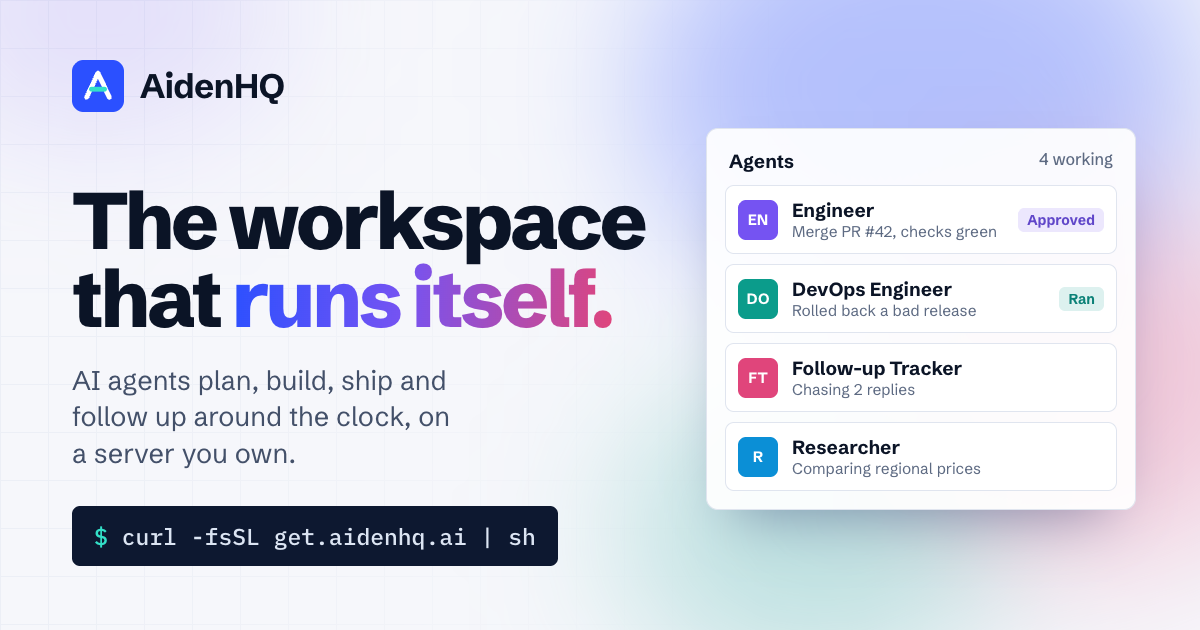
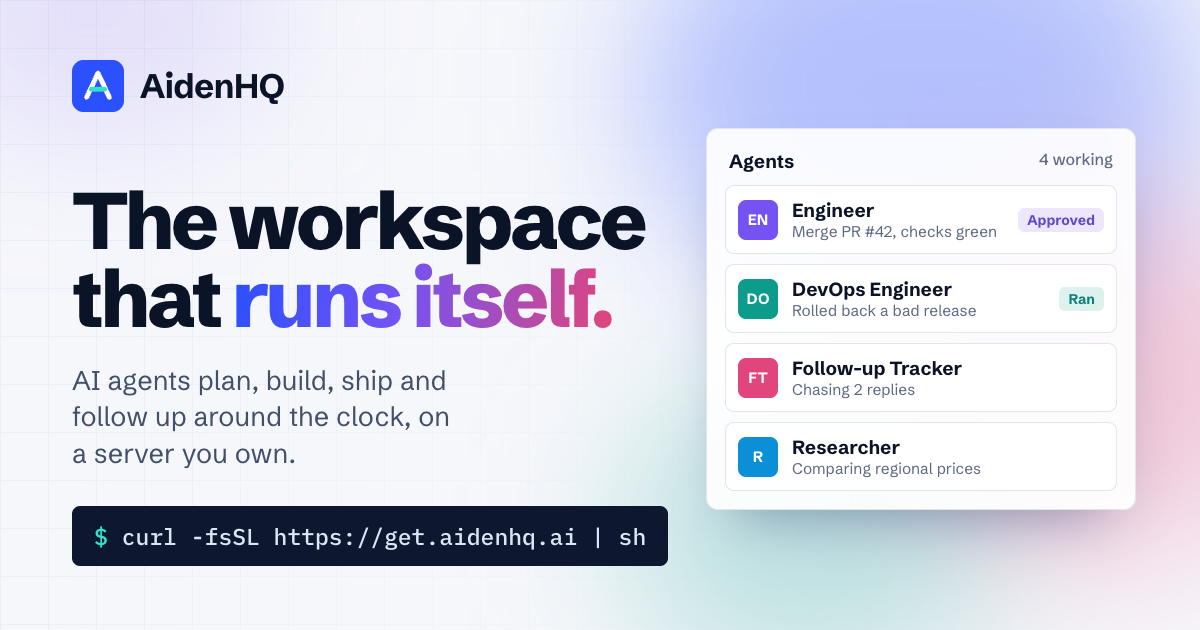
fix(site): exact install command in the share image, cost answer the release backs, original theme-color
The share image now shows the same `curl -fsSL https://get.aidenhq.ai | sh` as every page. The cost answer no
longer says setup limits the key (the release only does that with a management key); it says you can. theme-color
goes back to the single brand tag: per-scheme colours ignored the site's own theme toggle.

Changed region(s): [[0.2158, 0.7841, 0.555, 0.9048]]

diff --git a/site/index.html b/site/index.html
@@ -119,7 +119,7 @@
      "name": "What does it cost to run?",
      "acceptedAnswer": {
       "@type": "Answer",
-      "text": "AidenHQ itself is free and open source. You pay for your own server and for model usage, which OpenRouter bills to your own key. Setup puts a monthly limit on that key, each agent has spend caps per run, per task and per day, and the Costs page shows where every cent goes."
+      "text": "AidenHQ itself is free and open source. You pay for your own server and for model usage, which OpenRouter bills to your own key. Each agent has spend caps per run, per task and per day, you can put a monthly limit on the key itself, and the Costs page shows where every cent goes."
      }
     },
     {
@@ -386,7 +386,7 @@
       <li class="cap reveal" style="--c: var(--blue)"><h3>What is AidenHQ?</h3><p>AidenHQ is an open-source, self-hosted workspace where a team of AI agents runs work end to end: it plans, builds and ships, follows up with people, and maintains the internal apps it builds. You talk to Aiden, the chief of staff, on the web, Telegram or Slack. Aiden hands work to specialist agents and brings you only the decisions.</p></li>
       <li class="cap reveal" style="--c: var(--violet)"><h3>How do I install it?</h3><p>Paste one line into Claude Code, Codex or another coding assistant: &ldquo;Set up AidenHQ on my server by following https://aidenhq.ai/prompt.md&rdquo;. Or run <code>curl -fsSL https://get.aidenhq.ai | sh</code> on the server yourself. The install ends with a one-time setup link: open it, create your password and authenticator, and add your model key.</p><p style="margin-top:10px"><a class="lnk" href="/start/">Get started</a></p></li>
       <li class="cap reveal" style="--c: var(--teal)"><h3>What do I need?</h3><p>A Linux server with Ubuntu 22.04, 24.04 or 26.04, or Debian 12 or 13: at least 2 cores, 6 GB of memory and 60 GB of disk (4 cores, 8 GB and 100 GB recommended), reachable over SSH with a key. A Mac with macOS 13 or later, 12 GB of memory and 60 GB free also works. You also need an OpenRouter key for the AI models. Telegram, Slack and Google are optional.</p><p style="margin-top:10px"><a class="lnk" href="/install/">Install guide</a></p></li>
-      <li class="cap reveal" style="--c: var(--amber)"><h3>What does it cost to run?</h3><p>AidenHQ itself is free and open source. You pay for your own server and for model usage, which OpenRouter bills to your own key. Setup puts a monthly limit on that key, each agent has spend caps per run, per task and per day, and the Costs page shows where every cent goes.</p><p style="margin-top:10px"><a class="lnk" href="/safety/#costs">Spend limits</a></p></li>
+      <li class="cap reveal" style="--c: var(--amber)"><h3>What does it cost to run?</h3><p>AidenHQ itself is free and open source. You pay for your own server and for model usage, which OpenRouter bills to your own key. Each agent has spend caps per run, per task and per day, you can put a monthly limit on the key itself, and the Costs page shows where every cent goes.</p><p style="margin-top:10px"><a class="lnk" href="/safety/#costs">Spend limits</a></p></li>
       <li class="cap reveal" style="--c: var(--sky)"><h3>Where does my data live?</h3><p>On the server you run it on. The workspace has no open ports: you reach it over an SSH tunnel or your private network. Every agent, instruction and app lives in your own git repository, so every change is reviewable and can be rolled back.</p><p style="margin-top:10px"><a class="lnk" href="/safety/#private">Private by design</a></p></li>
       <li class="cap reveal" style="--c: var(--pink)"><h3>Is it open source?</h3><p>Yes. The kernel is AGPL-3.0-only. The official modules, the app starter and the design system are MIT, so the apps your agents build carry no AGPL obligations.</p><p style="margin-top:10px"><a class="lnk" href="https://github.com/Aiden-HQ/AidenHQ">Source on GitHub</a></p></li>
     </ul>

diff --git a/web/og/home.html b/web/og/home.html
@@ -3,7 +3,7 @@
 <html><head><meta charset="utf-8"><link href="https://fonts.googleapis.com/css2?family=Schibsted+Grotesk:wght@400;500;600;700;800&family=IBM+Plex+Mono:wght@500&display=block" rel="stylesheet"><link rel="stylesheet" href="base.css"></head><body><div class="grid"></div><div class="mesh"><i class="m1"></i><i class="m2"></i><i class="m3"></i><i class="m4"></i></div><div class="in"><div class="brand"><svg viewBox="0 0 32 32"><rect width="32" height="32" rx="7" fill="#2B50FF"/><path d="M9 23 16 8l7 15" fill="none" stroke="#fff" stroke-width="3" stroke-linejoin="round" stroke-linecap="round"/><path d="M12 18h8" stroke="#33E0C8" stroke-width="3" stroke-linecap="round"/></svg> AidenHQ</div>
 <style>h1{font-size:80px;max-width:none} p.sub{max-width:24ch;font-size:27px}</style><h1 style="margin-top:auto">The workspace<br>that <span class="grad">runs itself.</span></h1>
 <p class="sub">AI agents plan, build, ship and follow up around the clock, on a server you own.</p>
-<div class="foot"><div class="cmd"><span>$</span>curl -fsSL get.aidenhq.ai | sh</div></div></div><div class="panel"><div class="ph">Agents <small>4 working</small></div>
+<div class="foot"><div class="cmd"><span>$</span>curl -fsSL https://get.aidenhq.ai | sh</div></div></div><div class="panel"><div class="ph">Agents <small>4 working</small></div>
 <div class="ag" style="--c:#7553F2;--t:#7553F2"><i>EN</i><div><b>Engineer</b><span>Merge PR #42, checks green</span></div><em>Approved</em></div>
 <div class="ag" style="--c:#0B9C8B;--t:#0B9C8B"><i>DO</i><div><b>DevOps Engineer</b><span>Rolled back a bad release</span></div><em>Ran</em></div>
 <div class="ag" style="--c:#E0457B;--t:#7553F2"><i>FT</i><div><b>Follow-up Tracker</b><span>Chasing 2 replies</span></div></div>

diff --git a/site/_partials/head.html b/site/_partials/head.html
@@ -1,7 +1,6 @@
 <meta name="viewport" content="width=device-width, initial-scale=1">
 <meta name="color-scheme" content="light dark">
-<meta name="theme-color" content="#F6F7FB" media="(prefers-color-scheme: light)">
-<meta name="theme-color" content="#070D1A" media="(prefers-color-scheme: dark)">
+<meta name="theme-color" content="#2B50FF">
 <link rel="icon" href="/favicon.ico" sizes="32x32">
 <link rel="icon" href="/favicon.svg" type="image/svg+xml">
 <link rel="apple-touch-icon" href="/apple-touch-icon.png">

diff --git a/site/index.md b/site/index.md
@@ -97,7 +97,7 @@ A Linux server with Ubuntu 22.04, 24.04 or 26.04, or Debian 12 or 13: at least 2
 
 ### What does it cost to run?
 
-AidenHQ itself is free and open source. You pay for your own server and for model usage, which OpenRouter bills to your own key. Setup puts a monthly limit on that key, each agent has spend caps per run, per task and per day, and the Costs page shows where every cent goes. [Spend limits](https://aidenhq.ai/safety/index.md#costs)
+AidenHQ itself is free and open source. You pay for your own server and for model usage, which OpenRouter bills to your own key. Each agent has spend caps per run, per task and per day, you can put a monthly limit on the key itself, and the Costs page shows where every cent goes. [Spend limits](https://aidenhq.ai/safety/index.md#costs)
 
 ### Where does my data live?
 
